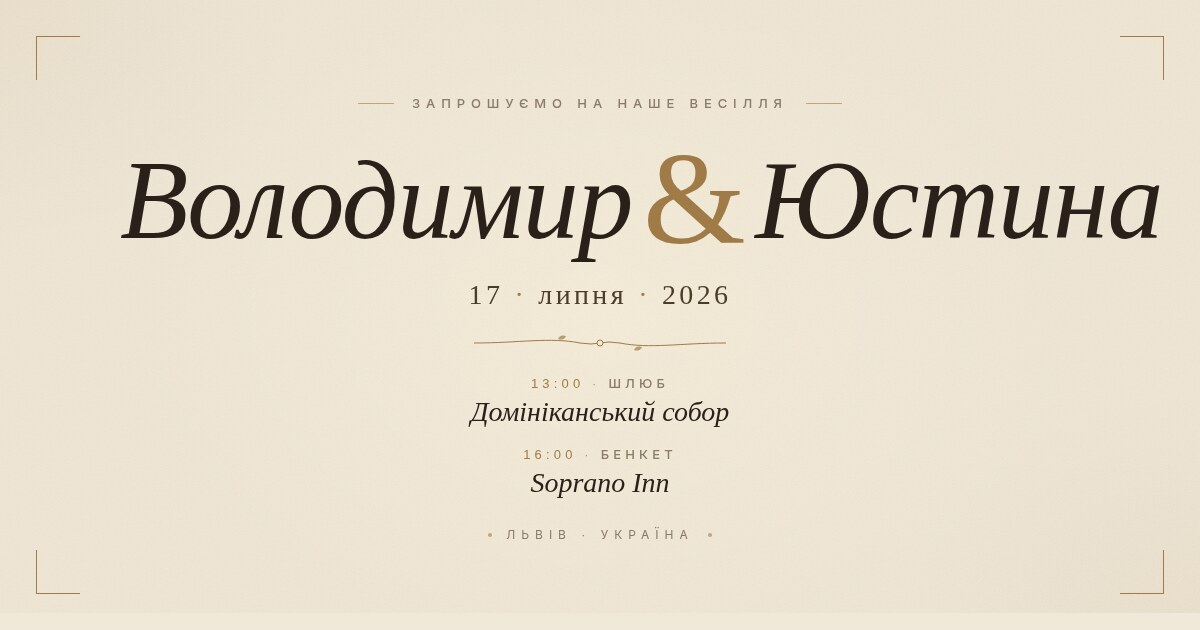
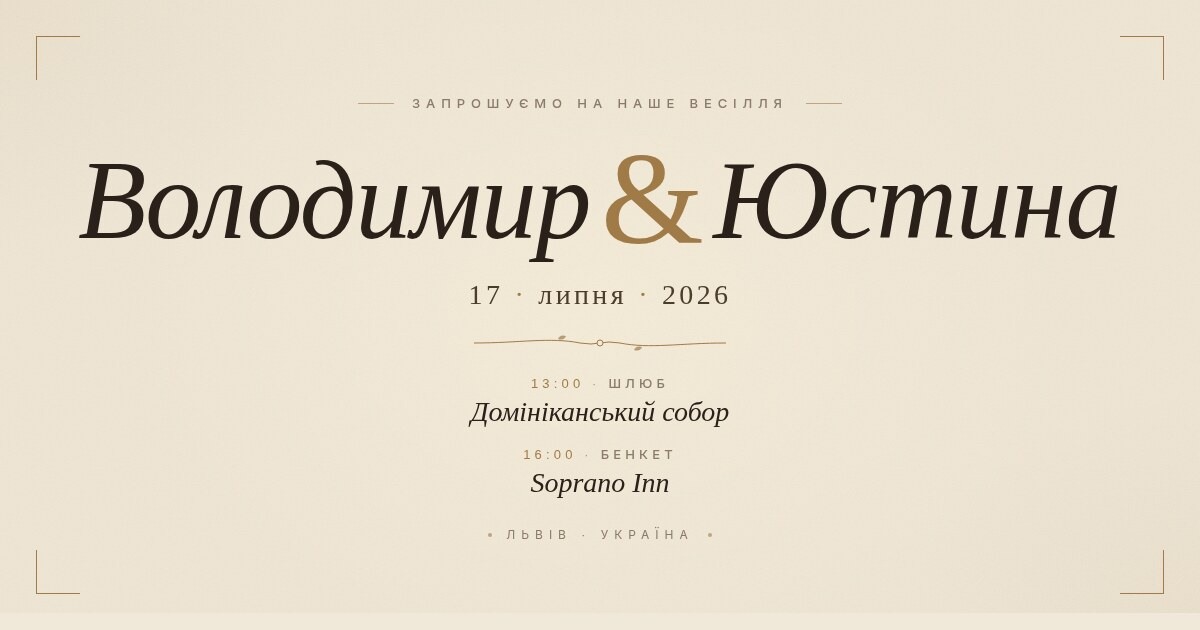
v-y: og — optically center hero names via translateX(-42px)
Italic Cormorant + wide Italiana ampersand drift the optical center
right of geometric. translateX bypasses flex-shrink that absorbed
prior margin-left attempts.

Changed region(s): [[0.0617, 0.2413, 0.9867, 0.4222]]

diff --git a/v-y/admin/index.html b/v-y/admin/index.html
@@ -141,7 +141,7 @@
             <span class="admin-card-icon" aria-hidden="true">🛏</span>
             Залишаються на ніч
           </h2>
-          <p class="admin-card-hint">Гості, які попросили заброньовати місце у готелі Soprano Inn. Оплата при заселенні — нічого додатково підтверджувати не треба.</p>
+          <p class="admin-card-hint">Гості, які попросили забронювати місце у готелі Soprano Inn. Оплата при заселенні.</p>
           <p class="admin-overnight-headline">
             <span id="overnightPeople">—</span>
             <span class="admin-overnight-unit" id="overnightUnit">осіб</span>
@@ -155,7 +155,7 @@
         <!-- Pending — needs follow-up. -->
         <article class="admin-card admin-pending">
           <h2 class="admin-card-title">Ще не відповіли — варто нагадати</h2>
-          <p class="admin-card-hint">Ці родини ще не сказали «Так» чи «Ні». Можливо запрошення загубилось серед інших повідомлень — варто м'яко нагадати.</p>
+          <p class="admin-card-hint">Ці родини ще не сказали «Так» чи «Ні». Можливо запрошення загубилось серед інших повідомлень — варто нагадати.</p>
           <ul class="admin-list" id="pendingList">
             <li class="admin-list-empty">—</li>
           </ul>

diff --git a/v-y/og-card.html b/v-y/og-card.html
@@ -111,7 +111,11 @@
       opacity: 0.6;
     }
 
-    /* —— Names (hero) ————————————————————————— */
+    /* —— Names (hero) —————————————————————————
+       Italic Cormorant slants right → optical center усього блоку
+       зміщується правіше за geometric center. transform translateX
+       (post-layout, не зсувається flex-логікою) тягне візуально
+       вліво на ~16px до оптично-центрованої позиції. */
     .names {
       font-family: 'Cormorant Garamond', 'Times New Roman', serif;
       font-weight: 300;
@@ -122,6 +126,7 @@
       color: #2a221a;
       margin: 8px 0 14px;
       white-space: nowrap;
+      transform: translateX(-42px);
     }
     .names .amp {
       font-family: 'Italiana', 'Times New Roman', serif;
